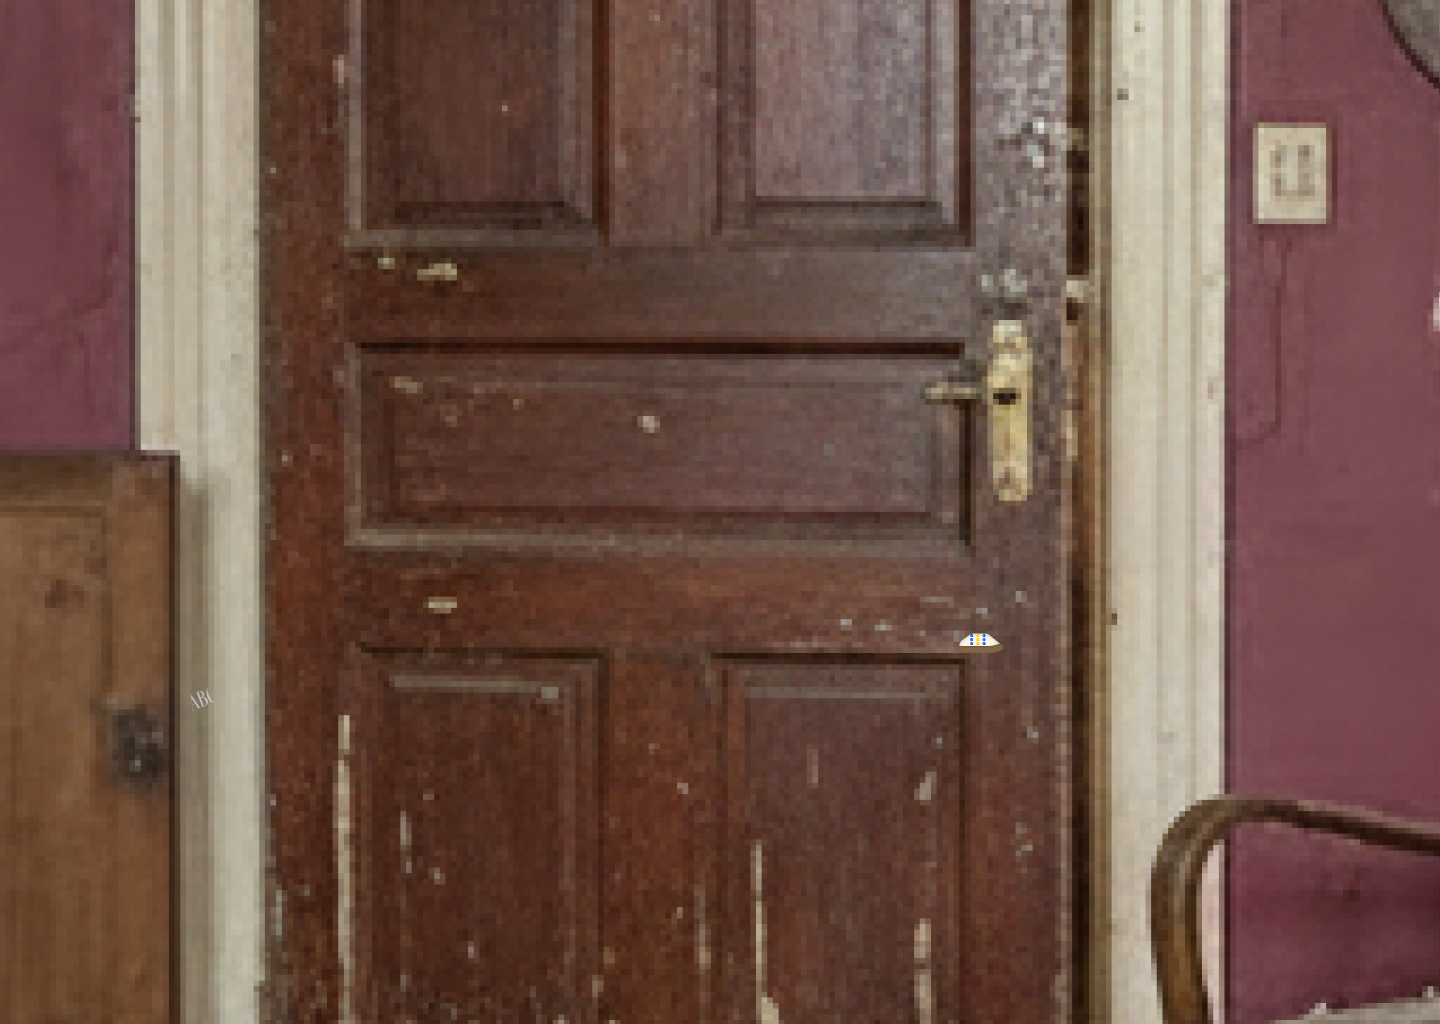
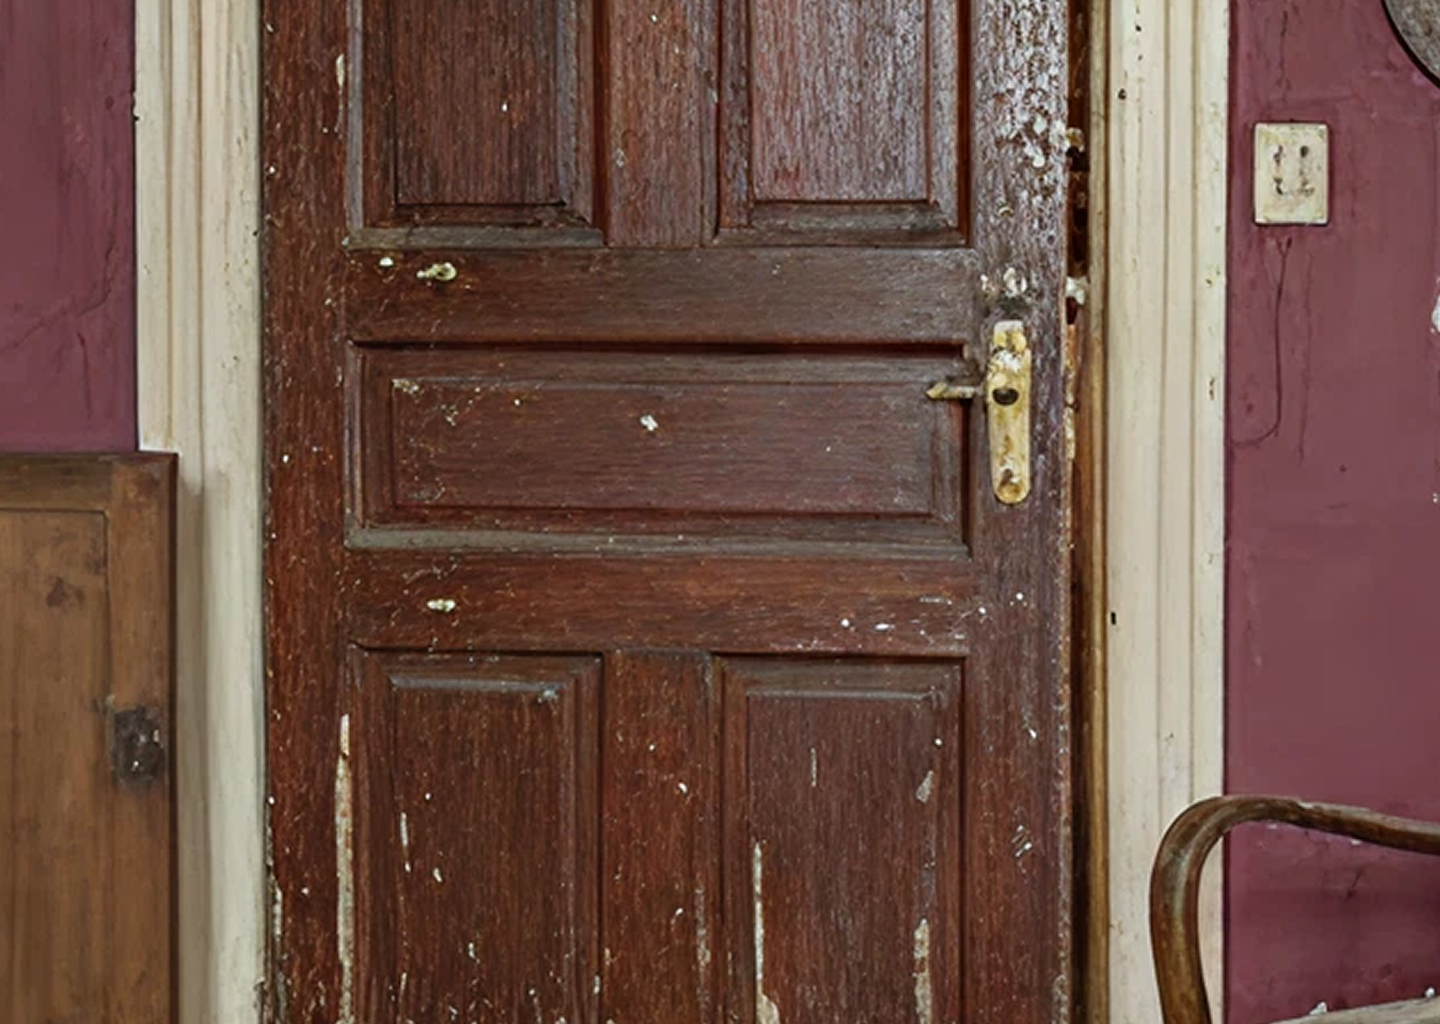
level2

diff --git a/src/pages/level2.jsx b/src/pages/level2.jsx
@@ -23,6 +23,7 @@ import linered from "../assets/linered.svg";
 import casclosed from "../assets/casclosed.png";
 import casetteSfx from "../music/casette.mp3";
 import radioSfx from "../music/radio.mp3";
+import Button from '../components/button';
 
 const GREY = 'grey';
 const BLUE = 'blue';
@@ -69,9 +70,13 @@ const LevelTwo = () => {
   const [puz2Open, setPuz2Open] = useState(false);
   const [puz3Open, setPuz3Open] = useState(false);
   const [puz4Open, setPuz4Open] = useState(false);
+  const [puz5Open, setPuz5Open] = useState(false);
   const [eyeUsed, setEyeUsed] = useState(false);
   const [puzzle1Solved, setPuzzle1Solved] = useState(false);
   const [puzzle2Solved, setPuzzle2Solved] = useState(false);
+  const [numCombo, setNumCombo] = useState([0, 0, 0, 0]);  
+    const [numGlow, setNumGlow] = useState(false);
+    const WIN_NUM = [0, 1, 5, 0];
   const LETTERS = ['A', 'K', 'E', 'D'];
   const nextLetter = (l) => LETTERS[(LETTERS.indexOf(l) + 1) % LETTERS.length];
   const WIN_COMBO = ['A', 'E', 'K', 'D'];
@@ -176,9 +181,21 @@ const LevelTwo = () => {
     setCircleRotation(prev => prev - 20);
   };
 
+  const handleNumClick = (i) => {
+  if (numGlow) return;
+  setNumCombo(prev => prev.map((n, idx) => idx === i ? (n + 1) % 10 : n));
+};
+
+const handleNumCheck = () => {
+  if (numCombo.join('') === WIN_NUM.join('')) {
+    setNumGlow(true);
+    setTimeout(() => navigate('/win2'), 1200);
+  }
+};
+
   return (
     <>
-      {/* Audio elements */}
+ 
       <audio ref={timerAudioRef} src="/assets/music/timer.mp3" loop />
       <audio ref={casetteAudioRef} src={casetteSfx} />
       <audio ref={radioAudioRef} src={radioSfx} loop />
@@ -205,7 +222,7 @@ const LevelTwo = () => {
             <div className="obj"><img src={tea} /></div>
             <div className="obj"><img src={key} /></div>
 
-            {/* Cassette — hidden once inserted */}
+            
             {cassetteInInventory && (
               <div
                 className="obj"
@@ -216,7 +233,7 @@ const LevelTwo = () => {
               </div>
             )}
 
-            {/* Battery — hidden once used to power cassette */}
+           
             {batteryCollected && !batteryUsed && (
               <div className="obj" onClick={handleBatteryInventoryClick} style={{ cursor: 'pointer' }}>
                 <img src={battery} className="battery-inv" />
@@ -289,10 +306,9 @@ const LevelTwo = () => {
           {comboWon && <p className="combo-msg">Fit in the missing piece</p>}
         </div>
 
-        {/* Puzzle 4 — cassette player */}
+      
         <div className="puzzle4select" onClick={() => setPuz4Open(true)}></div>
-        <div
-          className={`puzzle4${puz4Open ? ' puzzle4--open' : ''}`}
+        <div className={`puzzle4${puz4Open ? ' puzzle4--open' : ''}`}
           style={casOpen ? { backgroundImage: `url(${casclosed})` } : {}}
         >
           <img src={arrback} alt="" className='arrback' onClick={() => setPuz4Open(false)} />
@@ -329,6 +345,24 @@ const LevelTwo = () => {
             <img src={frontbtn} alt="forward" onClick={handleFront} style={{ cursor: 'pointer' }} />
           </div>
         </div>
+
+        <div className="puzzle5select" onClick={() => setPuz5Open(true)}></div>
+        <div className={`puzzle5${puz5Open ? ' puzzle5--open' : ''}`}>
+        <img src={arrback} alt="" className='arrback' onClick={() => setPuz5Open(false)} />
+        <div className="password">
+            {numCombo.map((num, i) => (
+            <div
+                key={i}
+                className={`numbtn${numGlow ? ' numbtn--glow' : ''}`}
+                onClick={() => handleNumClick(i)}
+            >
+                {num}
+            </div>
+            ))}
+        </div>
+        <Button text="CHECK" onClick={handleNumCheck} />
+        </div>
+
       </div>
     </>
   );

diff --git a/src/pages/levels3.jsx b/src/pages/levels3.jsx
@@ -1,0 +1,89 @@
+import React, { useRef, useEffect } from 'react';
+import { gsap } from 'gsap';
+import { useNavigate } from 'react-router-dom';
+import "./style.css"
+import levelframe from "../assets/levelframe.png"
+import level1 from "../assets/1.png";
+import level2 from "../assets/2.png";
+import level3 from "../assets/3.png";
+import swish from "../music/swish.mp3";
+
+const Levels3 = () => {
+    const yellowRef = useRef(null);
+    const lev1Ref = useRef(null);
+    const lev2Ref = useRef(null);
+    const levelsPageRef = useRef(null);
+    const navigate = useNavigate();
+
+    useEffect(() => {
+        gsap.to(yellowRef.current, {
+            opacity: 0,
+            duration: 0.8,
+            ease: 'power2.out'
+        });
+    }, []);
+
+    const handleLevel1Click = (e) => {
+    e.preventDefault();
+
+    const audio = new Audio(swish);
+    audio.play();
+
+    const rect = lev2Ref.current.getBoundingClientRect();
+    const originX = rect.left + rect.width / 2;
+    const originY = rect.top + rect.height / 2;
+
+    const tl = gsap.timeline({
+        onComplete: () => navigate("/leveltwo")
+    });
+
+    tl.to(lev2Ref.current, {
+        scale: 1.15,
+        duration: 0.15,
+        ease: 'power2.out'
+    })
+    .to(levelsPageRef.current, {
+        scale: 3,
+        opacity: 0,
+        duration: 0.85,
+        ease: 'power3.in',
+        transformOrigin: `${originX}px ${originY}px`
+    });
+};
+    return ( 
+        <>
+        <div className="levels" ref={levelsPageRef}>
+            <div ref={yellowRef} className="yellow"></div>
+            <div className="candle candle-left"></div>
+            <div className="candle candle-right"></div>
+            <img className="levelframe" src={levelframe} alt="Level Frame" />
+            <h2 className='leveltitle'>LEVELS</h2>
+            <div className="levelcont">
+
+                <a href="/story" onClick={handleLevel1Click}>
+                    <div className="lev" ref={lev1Ref}>
+                        <img src={level1} alt="" className="levimg" />
+                        <div className="levname">THE MESS</div>
+                    </div>
+                </a>
+
+                 <a href="/leveltwo" onClick={handleLevel1Click}>
+                    <div className="lev2" ref={lev2Ref}>
+                        <img src={level2} alt="" className="levimg" />
+                        <div className="levname">What You Hid</div>
+                    </div>                
+                </a>                                                
+                          
+
+                <div className="lev3">
+                    <img src={level3} alt="" className="levimg" />
+                    <div className="levname">THE TRUTH</div>
+                </div>
+
+            </div>
+        </div>
+        </>
+    );
+}
+
+export default Levels3;

diff --git a/src/pages/clues2.jsx b/src/pages/clues2.jsx
@@ -1,0 +1,68 @@
+import React, { useState } from 'react';
+import "./style.css"
+import back from "../assets/back.png"
+import Button from '../components/button';
+import briefcase from "../assets/briefcase.png"
+import casette from "../assets/casseteclue.png";
+import tea from "../assets/teaclue.png";
+import key from "../assets/keyclue.png";
+import letter from "../assets/letterclue.png";
+import evileye from "../assets/eyeclue.png";
+import { Link } from 'react-router-dom';
+import letterOverlay from "../assets/letteroverlay.png";
+import keyOverlay from "../assets/keyoverlay.png";
+import teaOverlay from "../assets/teaoverlay.png";
+import evileyeOverlay from "../assets/evileyeoverlay.png";
+import casetteOverlay from "../assets/casetteoverlay.png";
+import ObjectOverlay from "./objectoverlay";
+
+const OBJECTS = {
+  letter:  { id: 'letter',  title: 'Letter',    description: 'contains a hidden message', image: letterOverlay },
+  evileye: { id: 'evileye', title: 'Evil Eye',  description: '',                           image: evileyeOverlay },
+  tea:     { id: 'tea',     title: 'Tea',       description: '',                           image: teaOverlay },
+  key:     { id: 'key',     title: 'Key',       description: 'opens a certain safe',       image: keyOverlay },
+  casette: { id: 'casette', title: 'Casette',   description: 'decipher a code',            image: casetteOverlay },
+};
+
+const Clues2 = () => {
+  const [selected, setSelected] = useState(null); 
+
+  const open  = (id) => setSelected(id);
+  const close = ()   => setSelected(null);
+
+  return (
+    <>
+      {selected && (
+        <ObjectOverlay
+        title={OBJECTS[selected].title}
+        description={OBJECTS[selected].description}
+        image={OBJECTS[selected].image}
+        isVisible={true}
+        onClose={close}
+        />
+      )}
+
+      <div className="clues">
+        <div className="cluerow">
+          <Link to={"/win2"}>
+            <img className="backbtn" src={back} alt="" />
+          </Link>
+          <h2>Clues</h2>
+          <Link to={"/levels3"}>
+          <Button text="Home" />
+          </Link>
+        </div>
+
+        <div className="briefclues">
+          <img className='brief' src={briefcase} alt="" />
+
+          <img className='teaclue'  src={tea}      alt="tea"      onClick={() => open('tea')}      style={{ cursor: 'pointer' }} />
+          <img className='keyclue'  src={key}      alt="key"      onClick={() => open('key')}      style={{ cursor: 'pointer' }} />
+          <img className='letclue'  src={letter}   alt="letter"   onClick={() => open('letter')}   style={{ cursor: 'pointer' }} />
+        </div>
+      </div>
+    </>
+  );
+};
+
+export default Clues2;

diff --git a/src/pages/winscreen2.jsx b/src/pages/winscreen2.jsx
@@ -1,0 +1,47 @@
+import React, { useEffect, useRef, useState } from 'react';
+import "./style.css"
+import winframe from "../assets/winframe.png"
+import Button from '../components/button';
+import { Link } from 'react-router-dom';
+import tablaSrc from "../music/tabla.mp3";
+
+const WinScreen2 = (props) => {
+    const [visible, setVisible] = useState(false);
+    const tablaRef = useRef(null);
+
+    useEffect(() => {
+        
+        requestAnimationFrame(() => setVisible(true));
+
+       
+        if (tablaRef.current) {
+            tablaRef.current.currentTime = 0;
+            tablaRef.current.play().catch(() => {});
+        }
+    }, []);
+
+    return (
+        <div className={`winscreen ${visible ? 'winscreen-visible' : ''}`}>
+            <audio ref={tablaRef} src={tablaSrc} preload="auto" />
+            <div className="winframe">
+                <img src={winframe} className='winframepic' alt="" />
+                <div className="wincont">
+                    <div className="wintext">
+                        <h4>CONGRATS YOU PASSED</h4>
+                        <h1>LEVEL TWO {props.level}</h1>
+                    </div>
+                    <div className="winbtns">
+                        <Link to={"/clues2"}>
+                            <Button text="View Clues" />
+                        </Link>
+                        <Link to={"/levels3"}>
+                            <Button text="Next Level" />
+                        </Link>
+                    </div>
+                </div>
+            </div>
+        </div>
+    );
+}
+
+export default WinScreen2;

diff --git a/src/pages/style.css b/src/pages/style.css
@@ -1445,3 +1445,66 @@ display: none;
 .casigncont{
     position: relative;
 }
+
+.puzzle5select{
+       position: absolute;
+    width: 215px;
+    height: 420px;
+    top: 22.3%;
+    right: 46.9%;
+    cursor: pointer;
+}
+
+.puzzle5{
+    width: 100%;
+    height: 100vh;
+          background-image: url("../assets/puzzle5.png");
+          
+    background-position: center;
+    background-repeat: no-repeat;
+    background-size: cover;
+    display: flex;
+justify-content: center;
+align-items: center;
+position: absolute;
+flex-direction: column;
+top: 0;
+left: 0;
+z-index: -1;
+gap: 25px;
+}
+
+.puzzle5--open {
+  z-index: 5;
+}
+
+.password{
+    display: flex;
+align-items: center;
+gap: 21px;
+}
+
+.numbtn{
+    display: flex;
+width: 136px;
+height: 136px;
+padding: 27.689px 0;
+flex-direction: column;
+justify-content: center;
+align-items: center;
+background-image: url("../assets/doorbtn.svg");
+color: #000;
+text-align: center;
+font-family: "Awesome Shorten";
+font-size: 116.25px;
+font-style: normal;
+font-weight: 400;
+line-height: 79.145%; /* 92.006px */
+cursor: pointer;
+}
+
+.numbtn--glow {
+  filter: drop-shadow(0 0 16px rgba(100, 220, 100, 0.95));
+  color: #2a8a2a;
+  transition: filter 0.3s ease, color 0.3s ease;
+}

diff --git a/src/pages/routes.jsx b/src/pages/routes.jsx
@@ -16,6 +16,9 @@ import Clues from './clues';
 import LevelTwo from './level2';
 import LoseScreen2 from './losescreen2';
 import MenuOverlay2 from './menu2';
+import WinScreen2 from './winscreen2';
+import Clues2 from './clues2';
+import Levels3 from './levels3';
 
 const Layout = () => {
     const location = useLocation();
@@ -44,10 +47,14 @@ const Layout = () => {
                 <Route path="/menu" element={<MenuOverlay2 />} />
                 <Route path="/menu2" element={<MenuOverlay />} />
                 <Route path="/win" element={<WinScreen />} />
+                <Route path="/win2" element={<WinScreen2 />} />
                 <Route path="/levels2" element={<Levels2 />} />
+                <Route path="/levels3" element={<Levels3 />} />
                 <Route path="/lose" element={<LoseScreen />} />
                 <Route path="/lose2" element={<LoseScreen2 />} />
                 <Route path="/clue" element={<Clues />} />
+                <Route path="/clues2" element={<Clues2 />} />
+
 
 
 
